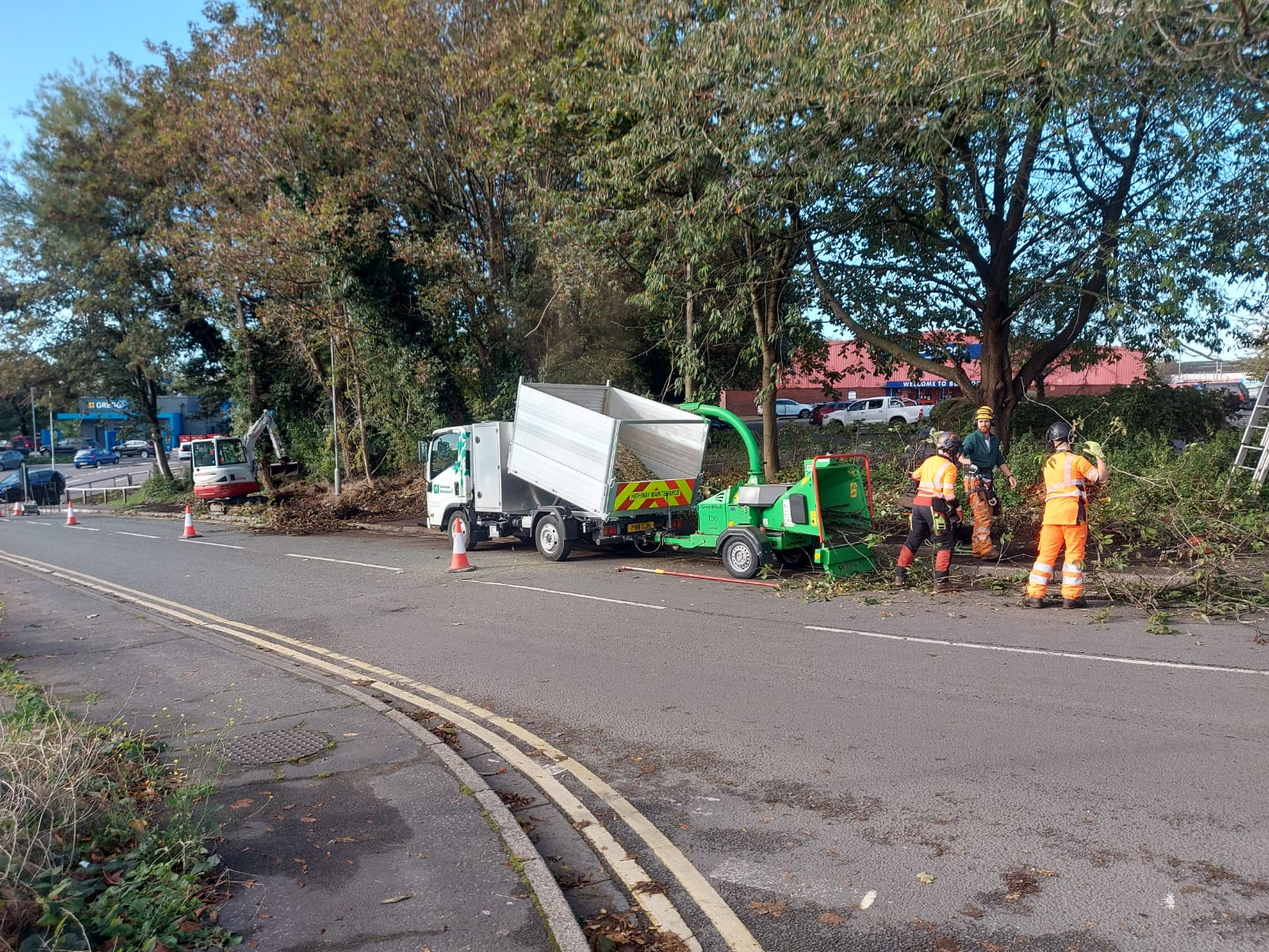
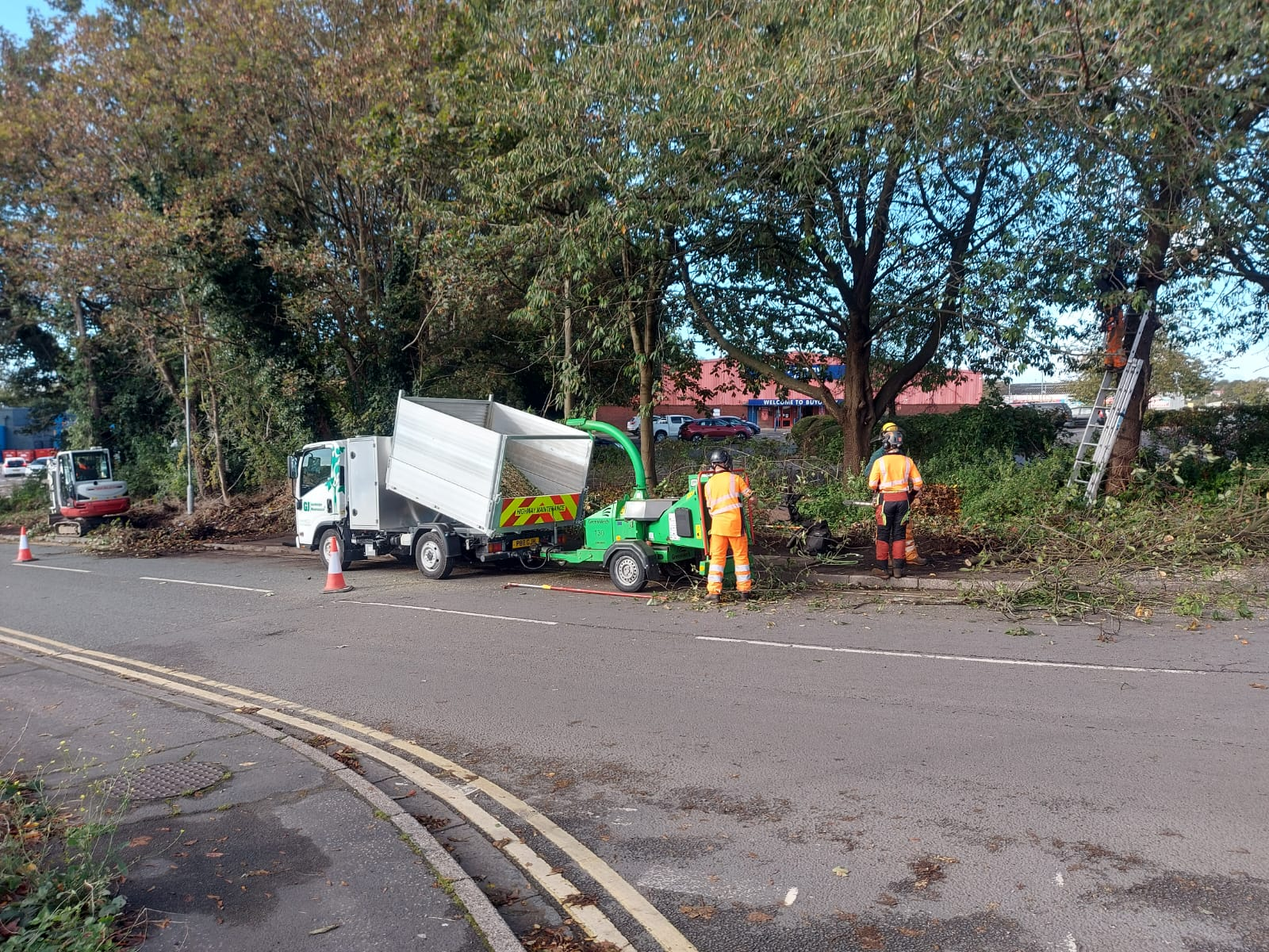
Updates images

diff --git a/index.html b/index.html
@@ -260,6 +260,38 @@
                     </div>   
                   </div>
 
+                  <div class="grid-item trees">
+                    <img alt="" src="images/tm-7.jpg" >
+                    <div class="portfolio_hover_area">
+                        <a class="fancybox" href="images/tm-7.jpg" data-fancybox-group="gallery" title="GJ Landscape Maintenance"><span class="fa fa-search"></span></a>
+                        <a href="#"><span class="fa fa-link"></span></a>
+                    </div>   
+                  </div>
+
+                  <div class="grid-item trees">
+                    <img alt="" src="images/tm-8.jpg" >
+                    <div class="portfolio_hover_area">
+                        <a class="fancybox" href="images/tm-8.jpg" data-fancybox-group="gallery" title="GJ Landscape Maintenance"><span class="fa fa-search"></span></a>
+                        <a href="#"><span class="fa fa-link"></span></a>
+                    </div>   
+                  </div>
+
+                  <div class="grid-item trees">
+                    <img alt="" src="images/tm-9.jpg" >
+                    <div class="portfolio_hover_area">
+                        <a class="fancybox" href="images/tm-9.jpg" data-fancybox-group="gallery" title="GJ Landscape Maintenance"><span class="fa fa-search"></span></a>
+                        <a href="#"><span class="fa fa-link"></span></a>
+                    </div>   
+                  </div>
+
+                  <div class="grid-item trees">
+                    <img alt="" src="images/tm-10.jpg" >
+                    <div class="portfolio_hover_area">
+                        <a class="fancybox" href="images/tm-10.jpg" data-fancybox-group="gallery" title="GJ Landscape Maintenance"><span class="fa fa-search"></span></a>
+                        <a href="#"><span class="fa fa-link"></span></a>
+                    </div>   
+                  </div>
+
                   <div class="grid-item waste">
                     <img alt="" src="images/wa-1.jpg" >
                     <div class="portfolio_hover_area">
@@ -291,6 +323,23 @@
                         <a href="#"><span class="fa fa-link"></span></a>
                     </div>   
                   </div>
+
+                  <div class="grid-item waste">
+                    <img alt="" src="images/wa-6.jpg" >
+                    <div class="portfolio_hover_area">
+                        <a class="fancybox" href="images/wa-2.jpg" data-fancybox-group="gallery" title="GJ Landscape Maintenance"><span class="fa fa-search"></span></a>
+                        <a href="#"><span class="fa fa-link"></span></a>
+                    </div>   
+                  </div>
+
+                  <div class="grid-item waste">
+                    <img alt="" src="images/wa-7.jpg" >
+                    <div class="portfolio_hover_area">
+                        <a class="fancybox" href="images/wa-3.jpg" data-fancybox-group="gallery" title="GJ Landscape Maintenance"><span class="fa fa-search"></span></a>
+                        <a href="#"><span class="fa fa-link"></span></a>
+                    </div>   
+                  </div>
+
                 </div><!-- Portfolio grid end -->
             </div>
         </section><!-- Portfolio end -->
